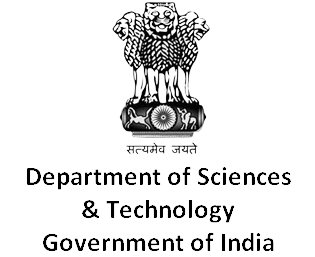
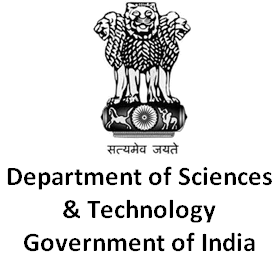
added new support partners

Changed region(s): [[0.0288, 0.0, 0.9784, 0.7471], [0.0863, 0.9027, 0.9209, 0.9961], [0.2302, 0.7782, 0.777, 0.8716]]

diff --git a/src/Components/Gallery.js b/src/Components/Gallery.js
@@ -72,7 +72,7 @@ const Gallery = () => {
 
               <div className="gallery-item ">
                 <a href="https://dst.gov.in/" target="_blank" className="gallery-lightbox">
-                  <img src={require("../Assets/Image/DST3.png")} alt="" className="img-fluid " style={{ borderRadius: '45px', blockSize: '200px' }} />
+                  <img src={require("../Assets/Image/DST3.png")} alt="" className="img-fluid " style={{  blockSize: '200px' }} />
                 </a>
               </div>
             </div>
@@ -81,6 +81,40 @@ const Gallery = () => {
               <div className="gallery-item ">
                 <a href="https://www.startupindia.gov.in/" target="_blank" className="gallery-lightbox">
                   <img src={require("../Assets/Image/StartupIndia.png")} alt="" className="img-fluid " style={{ borderRadius: '45px', blockSize: '200px', marginRight: 'auto' }} />
+                </a>
+              </div>
+            </div>
+          </div>
+          <div className="row g-0">
+            <div className="col-lg-3 col-md-4">
+
+              <div className="gallery-item ">
+                <a href="https://www.startupnexus.in/" target="_blank" className="gallery-lightbox">
+                  <img src={require("../Assets/Image/Nexus.png")} alt="" className="img-fluid " style={{ borderRadius: '45px', blockSize: '200px',  marginLeft: '15px', marginTop:"10px" }} />
+                </a>
+              </div>
+            </div>
+            <div className="col-lg-3 col-md-4">
+
+              <div className="gallery-item ">
+                <a href="https://siicincubator.com/index.php" target="_blank" className="gallery-lightbox">
+                  <img src={require("../Assets/Image/IITK.png")} alt="" className="img-fluid " style={{ borderRadius: '45px', blockSize: '200px', marginTop: '10px' }} />
+                </a>
+              </div>
+            </div>
+            <div className="col-lg-3 col-md-4">
+
+              <div className="gallery-item ">
+                <a href="https://nsrcel.org/" target="_blank" className="gallery-lightbox">
+                  <img src={require("../Assets/Image/NSRCEL2.png")} alt="" className="img-fluid " style={{ borderRadius: '45px', blockSize: '200px', marginTop: '10px'}} />
+                </a>
+              </div>
+            </div>
+            <div className="col-lg-3 col-md-4">
+
+              <div className="gallery-item ">
+                <a href="https://events.withgoogle.com/startups-for-sustainable-development/" target="_blank" className="gallery-lightbox">
+                  <img src={require("../Assets/Image/Google.png")} alt="" className="img-fluid " style={{  blockSize: '200px', marginRight: 'auto', marginTop: '10px' }} />
                 </a>
               </div>
             </div>
